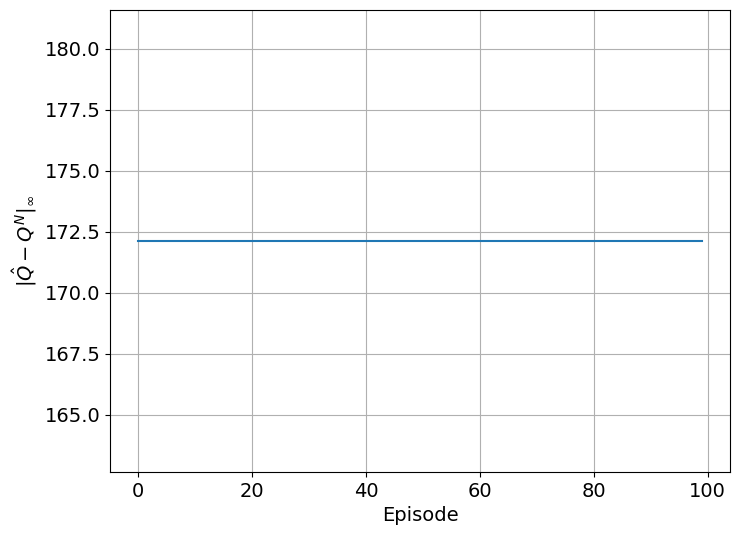
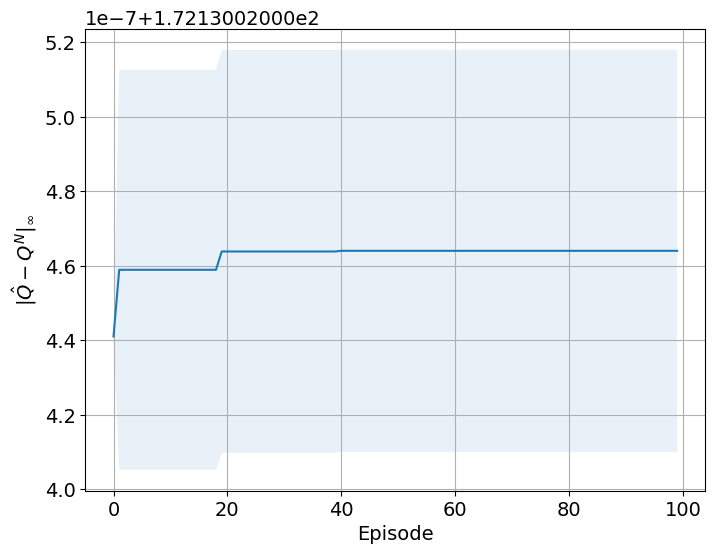
fix

Changed region(s): [[0.0, 0.0, 1.0, 0.9869]]

diff --git a/1/section5.py b/1/section5.py
@@ -12,21 +12,16 @@ import matplotlib.pyplot as plt
 from python.utils import infinity_norm, plot_with_std
 from python.latex import *
 
-# import seaborn as sns
 import matplotlib.pylab as plt
 import numpy as np
-
-# sns.set(rc={'figure.figsize':(9,7)})
 
 def online(episodes, transitions, learning_rate, e, domains, labels, policies, initial_state, gamma, title, decay=1, replay=False):
     epsilon = 1e-3
     N = math.ceil(math.log((epsilon / (2 * Br)) * (1. - gamma) ** 2, gamma))
 
     for q_learning_policy, label, domain in zip(policies, labels, domains):
-        nb_iterations = 1
+        nb_iterations = 10
 
-        if label == "Stochastic":
-            nb_iterations = 10
 
         dist_between_jvalues = np.zeros((nb_iterations, episodes))
         dist_between_q = np.zeros((nb_iterations, episodes))
@@ -35,7 +30,7 @@ def online(episodes, transitions, learning_rate, e, domains, labels, policies, i
         # Iterate to compute mean and std, incorpore uncertanty
         for i in range(nb_iterations):
             replay_buffer = []
-            policy = EpsilonGreedyPolicy(domain, learning_rate, e)
+            policy = EpsilonGreedyPolicy(domain, learning_rate, e, seed=i)
 
             for episode in range(episodes): 
                 state = initial_state
@@ -60,10 +55,7 @@ def online(episodes, transitions, learning_rate, e, domains, labels, policies, i
                 dist_between_q[i][episode] = infinity_norm(policy.Q, q_learning_policy.Q)
                 policy.epsilon = e
 
-            # plt.clf()
-            # ax = sns.heatmap(matrix_reach.T/nb_iterations, linewidth=0.5,annot=True)
-            # plt
-            # plt.savefig("figures/heatmap_{}_{}".format(title, label))
+                policy.learning_rate = learning_rate
 
         means_j = dist_between_jvalues.mean(axis=0)
         stds_j = dist_between_jvalues.std(axis=0)
@@ -75,8 +67,6 @@ def online(episodes, transitions, learning_rate, e, domains, labels, policies, i
         plot_with_std(range(episodes), means_q, stds_q, title + "_" + label + "_Q", r'$\left\| \hat{Q} - Q^N \right\|_\infty$', log=False, line_style="-", xlabel="Episode")
 
 def _1(domains, labels, policies, initial_state):
-    policy = RandomUniformPolicy()
-
     latex = False
 
     T = [10**i for i in range(1, 7)]
@@ -86,10 +76,7 @@ def _1(domains, labels, policies, initial_state):
     N = math.ceil(math.log((epsilon / (2 * Br)) * (1. - GAMMA) ** 2, GAMMA))
     
     for q_learning_policy, label, domain in zip(policies, labels, domains):
-        nb_iterations = 1
-
-        if label == "Stochastic":
-            nb_iterations = 10
+        nb_iterations = 10
 
         n, m = domain.g.shape
 
@@ -99,6 +86,8 @@ def _1(domains, labels, policies, initial_state):
         dist_between_qvalues = np.zeros((nb_iterations, len(T)))
 
         for i in range(nb_iterations): 
+            policy = RandomUniformPolicy(seed=i*10)
+            
             #generate a trajectory of size max(T)
             simulation = Simulation(domain, policy, initial_state, seed=i)
             trajectory = simulation.simulate(max(T))
@@ -193,7 +182,7 @@ if __name__ == "__main__":
         policies.append(QLearningPolicy(domain, GAMMA, N))
 
 
-    _1(domains, labels, policies, initial_state)
+    # _1(domains, labels, policies, initial_state)
     _2(domains, labels, policies, initial_state)
     _3(domains, labels, initial_state)
     

diff --git a/1/python/policy.py b/1/python/policy.py
@@ -40,6 +40,9 @@ class AlwaysGoRightPolicy(Policy):
         return RIGHT
 
 class RandomUniformPolicy(Policy):
+    def __init__(self, seed):
+        np.random.seed(seed)
+
     def chooseAction(self, state: State):
         w = np.random.rand()
         if w <= 0.25:
@@ -98,12 +101,12 @@ class TrajectoryBasedQLearningPolicy(QLearningPolicy):
         return Policy.J(self, domain, decay, N)
 
 class EpsilonGreedyPolicy(Policy):
-    def __init__(self, domain: StochasticDomain, learning_rate: float, epsilon:float):
+    def __init__(self, domain: StochasticDomain, learning_rate: float, epsilon:float, seed):
         self.domain = domain
         self.learning_rate = learning_rate
         self.epsilon = epsilon
 
-        self.random_policy = RandomUniformPolicy()
+        self.random_policy = RandomUniformPolicy(seed)
 
         n, m = domain.g.shape
         nb_actions = len(domain.actions)

diff --git a/1/section4.py b/1/section4.py
@@ -23,7 +23,7 @@ if __name__ == '__main__':
 
     n, m = deterministic_domain.g.shape
 
-    policy = RandomUniformPolicy()
+    policy = RandomUniformPolicy(42)
 
     Q_policy_deterministic = QLearningPolicy(deterministic_domain, 0.99, N)
     Q_policy_stochastic = QLearningPolicy(stochastic_domain, 0.99, N)
